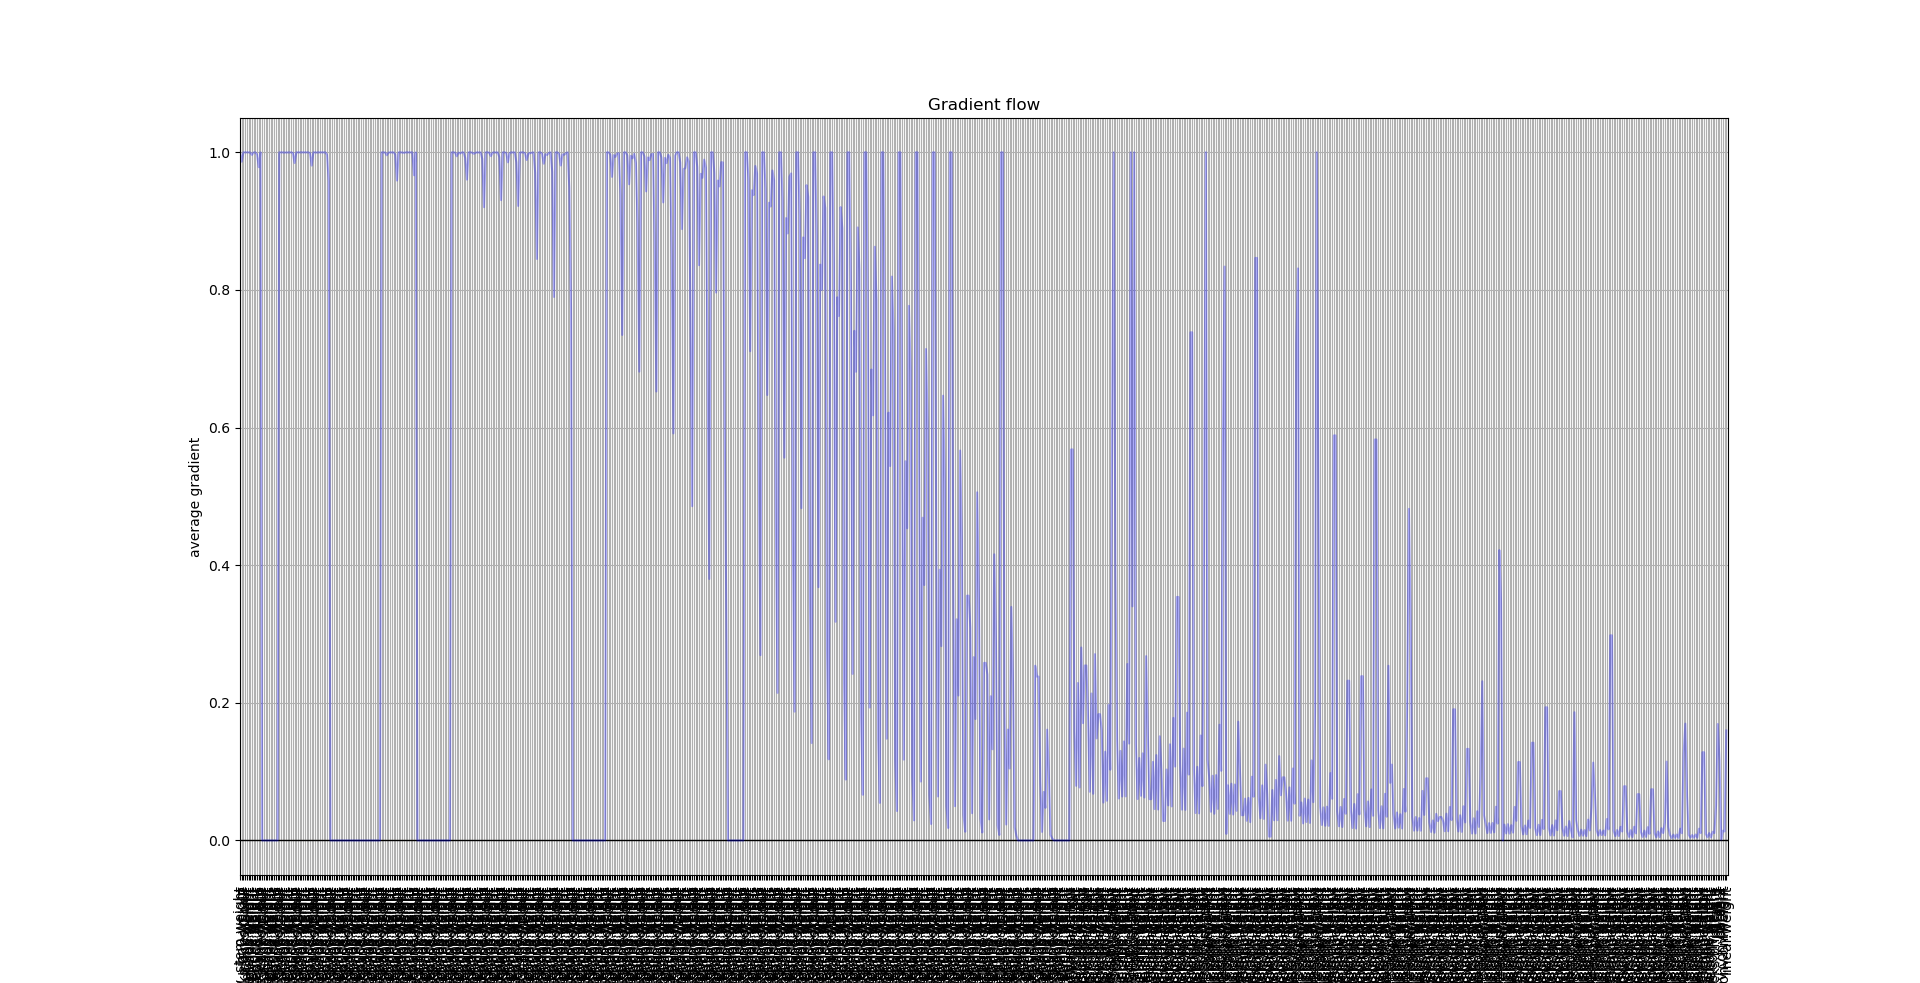
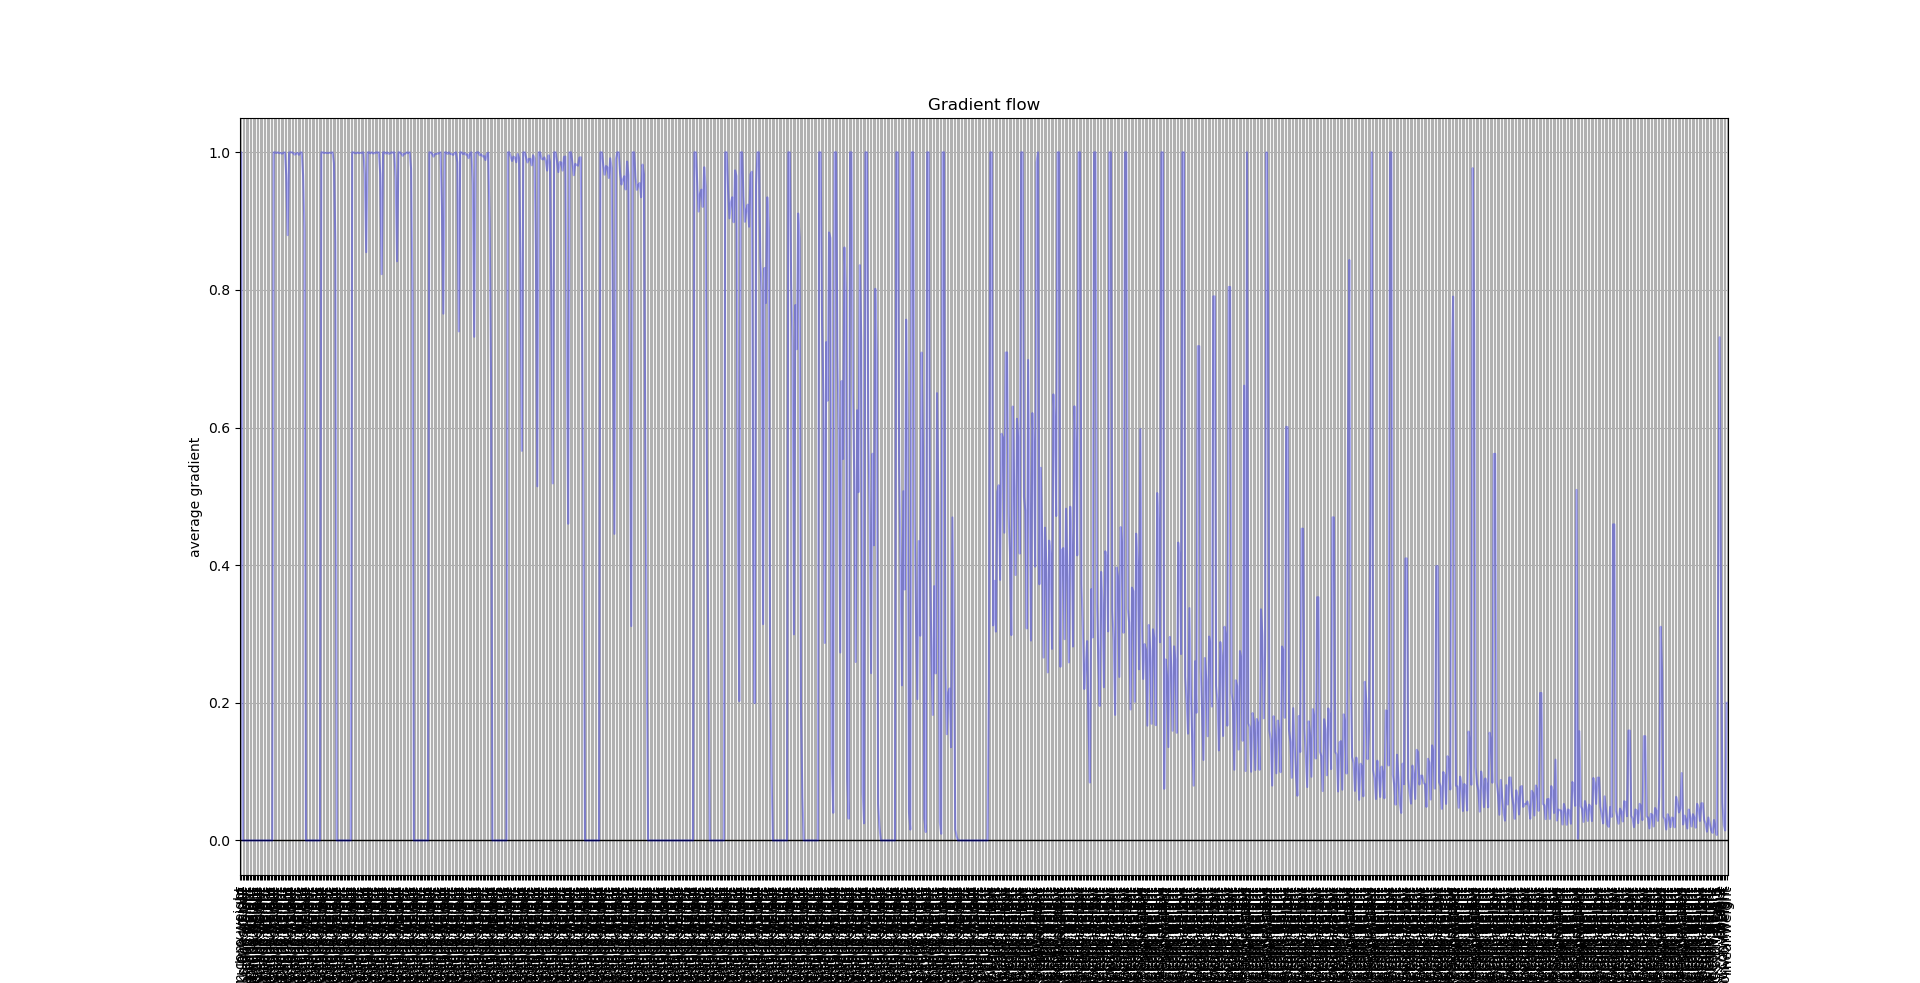
Add files via upload

diff --git a/EfficientNet.py b/EfficientNet.py
@@ -9,24 +9,88 @@ class Swish(nn.Module):
     def forward(self, x):
         return x * torch.sigmoid(x)
 
+class Conv2dDynamicSamePadding(nn.Module):
+    """
+    created by Zylo117
+    The real keras/tensorflow conv2d with same padding
+    """
 
-class Conv2dDynamicSamePadding(nn.Conv2d):
-    """ 2D Convolutions like TensorFlow, for a dynamic image size """
+    def __init__(self, in_channels, out_channels, kernel_size, stride = 1, groups=1, bias=True):
+        super().__init__()
+        self.conv = nn.Conv2d(in_channels, out_channels, kernel_size, stride=stride,
+                              bias=bias, groups=groups)
+        self.stride = self.conv.stride
+        self.kernel_size = self.conv.kernel_size
+        self.dilation = self.conv.dilation
 
-    def __init__(self, in_channels, out_channels, kernel_size, stride=1, dilation=1, groups=1, bias=True):
-        super().__init__(in_channels, out_channels, kernel_size, stride, 0, dilation, groups, bias)
-        self.stride = self.stride if len(self.stride) == 2 else [self.stride[0]] * 2
+        if isinstance(self.stride, int):
+            self.stride = [self.stride] * 2
+        elif len(self.stride) == 1:
+            self.stride = [self.stride[0]] * 2
+
+        if isinstance(self.kernel_size, int):
+            self.kernel_size = [self.kernel_size] * 2
+        elif len(self.kernel_size) == 1:
+            self.kernel_size = [self.kernel_size[0]] * 2
 
     def forward(self, x):
-        ih, iw = x.size()[-2:]
-        kh, kw = self.weight.size()[-2:]
-        sh, sw = self.stride
-        oh, ow = math.ceil(ih / sh), math.ceil(iw / sw)
-        pad_h = max((oh - 1) * self.stride[0] + (kh - 1) * self.dilation[0] + 1 - ih, 0)
-        pad_w = max((ow - 1) * self.stride[1] + (kw - 1) * self.dilation[1] + 1 - iw, 0)
-        if pad_h > 0 or pad_w > 0:
-            x = F.pad(x, [pad_w // 2, pad_w - pad_w // 2, pad_h // 2, pad_h - pad_h // 2])
-        return F.conv2d(x, self.weight, self.bias, self.stride, self.padding, self.dilation, self.groups)
+        h, w = x.shape[-2:]
+        h_step = math.ceil(w / self.stride[1])
+        v_step = math.ceil(h / self.stride[0])
+        h_cover_len = self.stride[1] * (h_step - 1) + 1 + (self.kernel_size[1] - 1)
+        v_cover_len = self.stride[0] * (v_step - 1) + 1 + (self.kernel_size[0] - 1)
+        extra_h = h_cover_len - w
+        extra_v = v_cover_len - h
+        left = extra_h // 2
+        right = extra_h - left
+        top = extra_v // 2
+        bottom = extra_v - top
+        x = F.pad(x, [left, right, top, bottom])
+        x = self.conv(x)
+        return x
+
+class MaxPool2dStaticSamePadding(nn.Module):
+    """
+    created by Zylo117
+    The real keras/tensorflow MaxPool2d with same padding
+    """
+
+    def __init__(self, kernel_size, stride=None):
+        super().__init__()
+        self.pool = nn.MaxPool2d(kernel_size, stride=stride)
+        self.stride = self.pool.stride
+        self.kernel_size = self.pool.kernel_size
+
+        if isinstance(self.stride, int):
+            self.stride = [self.stride] * 2
+        elif len(self.stride) == 1:
+            self.stride = [self.stride[0]] * 2
+
+        if isinstance(self.kernel_size, int):
+            self.kernel_size = [self.kernel_size] * 2
+        elif len(self.kernel_size) == 1:
+            self.kernel_size = [self.kernel_size[0]] * 2
+
+    def forward(self, x):
+        h, w = x.shape[-2:]
+
+        h_step = math.ceil(w / self.stride[1])
+        v_step = math.ceil(h / self.stride[0])
+        h_cover_len = self.stride[1] * (h_step - 1) + 1 + (self.kernel_size[1] - 1)
+        v_cover_len = self.stride[0] * (v_step - 1) + 1 + (self.kernel_size[0] - 1)
+
+        extra_h = h_cover_len - w
+        extra_v = v_cover_len - h
+
+        left = extra_h // 2
+        right = extra_h - left
+        top = extra_v // 2
+        bottom = extra_v - top
+
+        x = F.pad(x, [left, right, top, bottom])
+
+        x = self.pool(x)
+        return x
 
 
 class MBConvBlock(nn.Module):
@@ -38,17 +102,19 @@ class MBConvBlock(nn.Module):
         self.dropRate = dropRate
         self.has_se = has_se
         self.expansionConv = Conv2dDynamicSamePadding(in_channels,expansion_factor * in_channels,
-                                                      1,1,groups=1,bias=False)
+                                                      1,1,groups=1)
         self.bn_expansion = nn.BatchNorm2d(in_channels * expansion_factor,
                                            eps=bn_eps,momentum=bn_mom)
         self.dwiseConv = Conv2dDynamicSamePadding(in_channels * expansion_factor,
                                                   in_channels * expansion_factor,kernel_size,
                                                   stride=1,groups=in_channels * expansion_factor,
                                                   bias=False)
+        self.point = Conv2dDynamicSamePadding(in_channels * expansion_factor,
+                                                  in_channels * expansion_factor,kernel_size=1,stride=1)
         self.bn_Dwise = nn.BatchNorm2d(expansion_factor * in_channels,
                                        bn_eps,momentum=bn_mom)
         self.reduceConv = Conv2dDynamicSamePadding(in_channels * expansion_factor,
-                                                   in_channels,1,1,bias=False)
+                                                   in_channels,1,1)
         self.bn_reduce = nn.BatchNorm2d(in_channels,bn_eps,bn_mom)
         self.blockACT = Swish()
         if self.has_se:
@@ -64,16 +130,16 @@ class MBConvBlock(nn.Module):
 
 
     def forward(self, x):
-        xOri = x.clone()
+        xOri = x
         xExpansion = self.blockACT(self.bn_expansion(self.expansionConv(x)))
-        xDepthWise = self.blockACT(self.bn_Dwise(self.dwiseConv(xExpansion)))
+        xDepthWise = self.blockACT(self.bn_Dwise(self.point(self.dwiseConv(xExpansion))))
         xSE = xDepthWise.clone()
         # Squeeze and Excitation
         if self.has_se:
             x_squeezed = F.adaptive_avg_pool2d(xSE, [1,1])
             x_squeezed = self._se_expand(self.blockACT(self._se_reduce(x_squeezed)))
             xSE = torch.sigmoid(x_squeezed) * xSE
-        xReduce = self.blockACT(self.bn_reduce(self.reduceConv(xSE)))
+        xReduce = self.bn_reduce(self.reduceConv(xSE))
         xGate = xReduce * torch.abs(self.residualP)
         if self.if_down_sample:
             if np.random.rand(1) < self.dropRate:
@@ -93,10 +159,10 @@ class MB_Blocks(nn.Module):
     def __init__(self,in_channels,out_channels,layers,kernel_size = 3,drop_connect_rate = 0.2):
         super(MB_Blocks,self).__init__()
         self.blocks = nn.ModuleList([])
-        self.blocks.append(MBConvBlock(in_channels,out_channels,kernel_size,drop_connect_rate))
         if layers > 1:
             for _ in range(layers - 1):
-                self.blocks.append(MBConvBlock(out_channels, out_channels,kernel_size,drop_connect_rate))
+                self.blocks.append(MBConvBlock(in_channels, in_channels,kernel_size,drop_connect_rate))
+        self.blocks.append(MBConvBlock(in_channels, out_channels, kernel_size, drop_connect_rate))
 
     def forward(self, x):
         for m in self.blocks:
@@ -109,12 +175,13 @@ class CBA(nn.Module):
         super(CBA,self).__init__()
         bn_mom = 1 - 0.99
         bn_eps = 0.001
-        self.conv = Conv2dDynamicSamePadding(in_channels,outChannels,kernel_size,stride,groups= group)
+        self.conv = Conv2dDynamicSamePadding(in_channels,in_channels,kernel_size,stride,groups= group,bias=False)
+        self.point = Conv2dDynamicSamePadding(in_channels,outChannels,kernel_size=1,stride=1)
         self.bn = nn.BatchNorm2d(outChannels,bn_eps,bn_mom)
         self.act = Swish()
 
     def forward(self, x):
-        return self.act(self.bn(self.conv(x)))
+        return self.act(self.bn(self.point(self.conv(x))))
 
 
 class BiFPN_Down_Unit (nn.Module):
@@ -136,7 +203,6 @@ class BiFPN_Down_Unit (nn.Module):
         transLow = self.convLowTransChannels(P_low)
         added = torch.div(torch.abs(self.paraHigh) * transHigh + torch.abs(self.paraLow) * transLow,
                           self.eps + torch.abs(self.paraLow) + torch.abs(self.paraHigh))
-        #added = self.paraHigh * transHigh + self.paraLow * transLow
         return self.innerConvBlocks(added)
 
 
@@ -152,10 +218,12 @@ class BiFPN_Up_Unit (nn.Module):
         self.convLowTransChannels = CBA(P_Low_channels, inner_channels, 1, 1, 1)
         self.convMedTransChannels = CBA(P_Med_channels, inner_channels, 1, 1, 1)
         self.innerConvBlocks = CBA(inner_channels,inner_channels,3,1,inner_channels)
+        self.downSampling = MaxPool2dStaticSamePadding(kernel_size=3,stride=2)
 
 
     def forward(self,P_Ori,P_Low,P_Med):
-        downSample = F.interpolate(P_Low,size=[P_Ori.shape[-2],P_Ori.shape[-1]])
+        downSample = self.downSampling(P_Low)
+        downSample = F.interpolate(downSample,size=[P_Ori.shape[-2],P_Ori.shape[-1]])
         transOri = self.convOriTransChannels(P_Ori)
         transLow = self.convLowTransChannels(downSample)
         transMed = self.convMedTransChannels(P_Med)
@@ -210,7 +278,6 @@ class EfficientNetReform(nn.Module):
         bn_eps = 0.001
         d = math.ceil(math.pow(1.2,fy))  ## depth
         w = math.ceil(math.pow(1.1,fy))  ## width channels
-        self.r = math.ceil(math.pow(1.15,fy)) ## resolution
         ### stem
         self.conv_stem = Conv2dDynamicSamePadding(in_channels, 32 * w, kernel_size=3, stride=1, bias=False)
         self.bn0 = nn.BatchNorm2d(num_features=32 * w, momentum=bn_mom, eps=bn_eps)
@@ -244,9 +311,8 @@ class EfficientNetReform(nn.Module):
         :param x:
         :return:
         """
-        h , w = x.shape[-2],x.shape[-1]
-        xReshape = F.interpolate(x,size=[h  * self.r , w  *self.r],mode="bilinear",align_corners=True)
-        xStem = self.bn0(self.conv_stem(xReshape))
+        #print(x.shape)
+        xStem = self.bn0(self.conv_stem(x))
         p1 = self.block2(self.block1(xStem))
         p2 = self.block3(p1)
         p3 = self.block4(p2)
@@ -282,9 +348,9 @@ def plot_grad_flow(named_parameters):
     layers = []
     for n, p in named_parameters:
         if p.requires_grad and ("bias" not in n):
-            layers.append(n)
+            layers.append(n.split(".")[-1])
             print("########")
-            print(n)
+            print(n.split(".")[0:-2])
             if p.grad is not None:
                 print(p.grad.abs().mean())
                 if p.grad.abs().mean() > 2:

diff --git a/Test.py b/Test.py
@@ -1,47 +1,31 @@
-import math
+import cv2
+import numpy as np
+import torch.nn.functional as F
+import torch
+import torch.nn as nn
+import torchvision.transforms as T
+import copy
+import PIL.Image as Image
+
+upS = nn.UpsamplingBilinear2d(scale_factor=2)
+
+image = np.array(Image.open("test.jpg").convert("RGB"))
+h,w = image.shape[0],image.shape[1]
+testImgTensor = torch.from_numpy(image).reshape([1,3,h,w]).float()
+###
+upSampling = F.interpolate(testImgTensor[:,0,:,:].unsqueeze(1),size=[h * 2, w *2],mode="bicubic")
+cv2.imwrite("testTransUp.jpg",cv2.cvtColor(upSampling.view([h * 2,w * 2,1]).detach().cpu().numpy(),cv2.COLOR_BGR2RGB))
+###
+conv = nn.Conv2d(3,3,3,1,1)(testImgTensor).reshape([h,w,3]).detach().cpu().numpy()
+cv2.imwrite("testTransConv.jpg",conv)
+###
+resize = cv2.resize(image[:,:,0],(w * 2, h *2),interpolation=cv2.INTER_BITS)
+cv2.imwrite("testTranscv2Resize.jpg",resize)
+###
+print(resize)
+print(upSampling.view([h * 2,w * 2,1]))
 
 
-class CosineDecaySchedule :
 
-    def __init__(self,lrMin,lrMax,tMaxIni,factor,lrDecayRate):
-        """
-        :param lrMin: The min learning rate in one schedule
-        :param lrMax: The max learning rate in one schedule
-        :param tMaxIni: The initial max training times in one schedule
-        :param factor: increase tMaxIni by multiply this factor at every restart
-        :param lrDecayRate : The decay rate of lrMax
-        """
-        self.lrMin = lrMin
-        self.lrMax = lrMax
-        self.curTT = 0.
-        self.trainingTimes = tMaxIni
-        self.factor = factor
-        self.lrDecayRate = lrDecayRate
 
-    def calculateLearningRate(self):
-        if self.curTT > self.trainingTimes:
-            self.__restart()
-        lrC = float(self.lrMin) + 0.5 * (self.lrMax - self.lrMin) \
-              * (1. + math.cos(self.curTT / self.trainingTimes * math.pi))
-        return lrC
-
-    def step(self):
-        self.curTT += 1
-
-    def __restart(self):
-        self.lrMax = self.lrMax * self.lrDecayRate
-        self.curTT = 0
-        self.trainingTimes = self.trainingTimes * self.factor
-
-if __name__ == "__main__":
-    testSche = CosineDecaySchedule(1e-6,1e-5,1200,1.2,0.91)
-    testTotalTrainingTimes = 35000
-    x = []
-    for i in range(testTotalTrainingTimes):
-        x.append(testSche.calculateLearningRate())
-        testSche.step()
-    import matplotlib.pyplot as  plt
-    plt.figure()
-    plt.plot([i for i in range(testTotalTrainingTimes)],x , lw = 2)
-    plt.show()
 

diff --git a/TrainAndTest.py b/TrainAndTest.py
@@ -16,36 +16,39 @@ class DataLoaderX(d.DataLoader):
 
 if __name__ == "__main__":
     ### config
-    batchSize = 16
-    tMaxIni = 1800
+    batchSize = 8
+    tMaxIni = 1000
     growthRate = 32
     blocks = [6,12,24,16]
-    learning_rate = 5e-4
+    learning_rate = 2.57e-4
     labelsNumber = 10
     ifUseBn = True
     ifTrain = True
     epoch = 25
     displayTimes = 25
     modelSavePath = "./"
-    loadWeight = True
+    loadWeight = False
     trainModelLoad = 4
     testModelLoad = 10
-    decayRate = 0.91
+    decayRate = 0.97
     fy = 4
     stepTimes = 1
-    saveTimes = 5000
+    saveTimes = 4000
     clip_value = 20
     ### Data pre-processing
+    import math
     transformationTrain = tv.transforms.Compose([
-        tv.transforms.RandomHorizontalFlip(p = 0.25),
-        tv.transforms.RandomVerticalFlip(p = 0.334),
+        tv.transforms.Resize(size=[math.ceil(math.pow(1.15,fy)) * 32,math.ceil(math.pow(1.15,fy)) * 32]),
+        # tv.transforms.RandomHorizontalFlip(p = 0.25),
+        # tv.transforms.RandomVerticalFlip(p = 0.334),
         #tv.transforms.RandomApply([tv.transforms.RandomResizedCrop(32)],p=0.5),
         tv.transforms.ToTensor(),
-        tv.transforms.Normalize([0.485, 0.456, 0.406],[0.229, 0.224, 0.225])
+        #tv.transforms.Normalize([0.485, 0.456, 0.406],[0.229, 0.224, 0.225])
     ])
     transformationTest = tv.transforms.Compose([
+        tv.transforms.Resize(size=[math.ceil(math.pow(1.15, fy)) * 32, math.ceil(math.pow(1.15, fy)) * 32]),
         tv.transforms.ToTensor(),
-        tv.transforms.Normalize([0.485, 0.456, 0.406],[0.229, 0.224, 0.225])
+        #tv.transforms.Normalize([0.485, 0.456, 0.406],[0.229, 0.224, 0.225])
     ])
     #cifarDataTrainSet = tv.datasets.CIFAR100(root="./Cifar100/",train=True,download=True,transform=transformation)
     #cifarDataTestSet = tv.datasets.CIFAR100(root="./Cifar100/",train=False,download=True)
